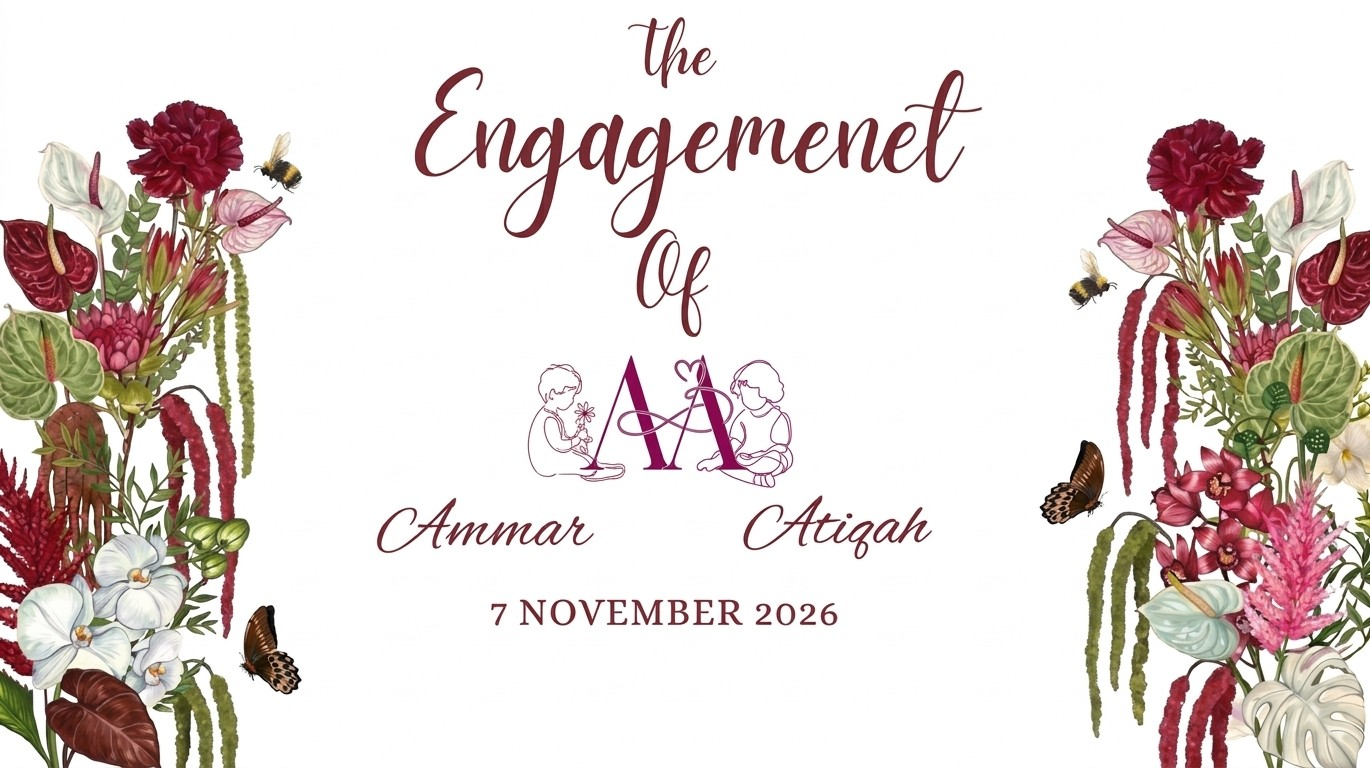
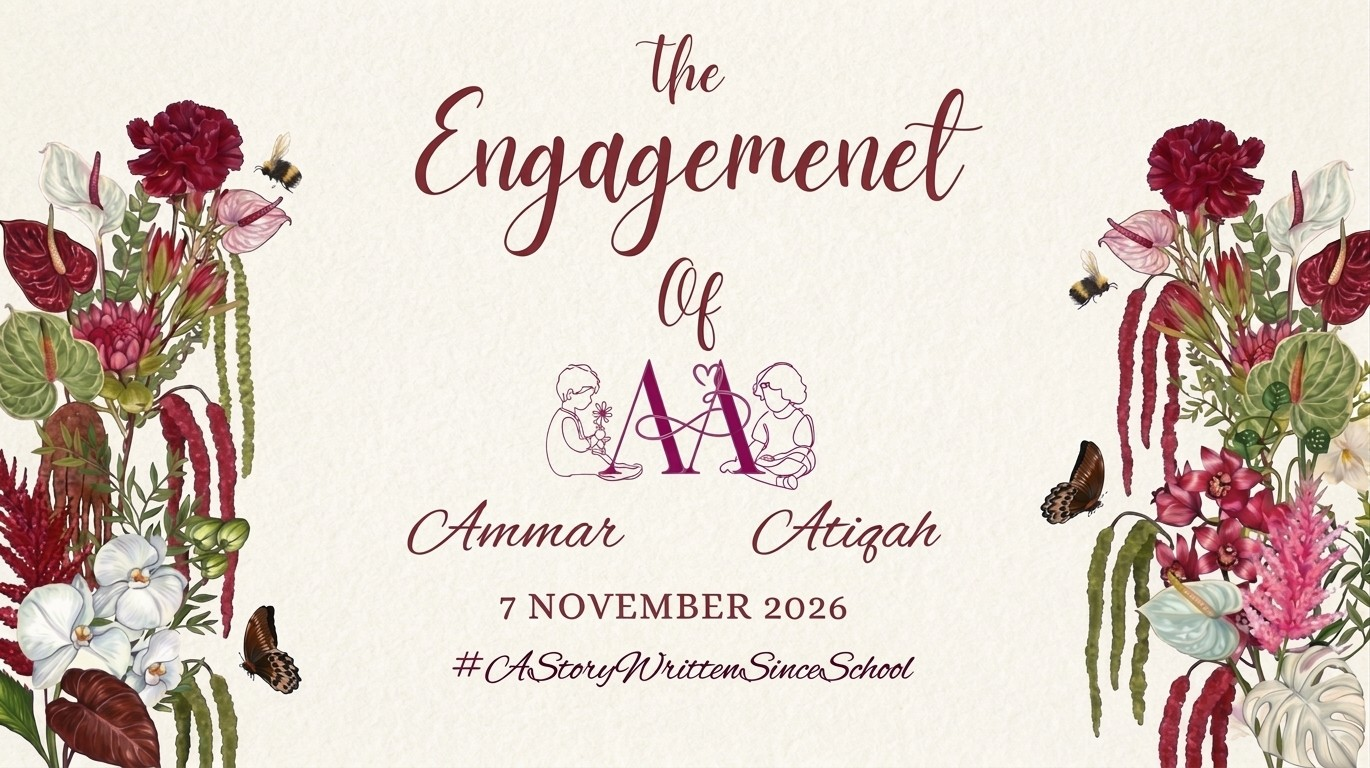
New board image: cream paper with hashtag

diff --git a/index.html b/index.html
@@ -12,11 +12,11 @@
   :root{--wine:#7d1430;--wine-dk:#5e0f24;--sage:#6f7f4a;--ink:#4f4440}
   *{box-sizing:border-box;margin:0}
   [hidden]{display:none!important}
-  html,body{height:100%;background:#fff;overflow:hidden}
+  html,body{height:100%;background:#f3efe6;overflow:hidden}
   body{display:flex;align-items:center;justify-content:center}
   /* 16:9 stage scaled to the screen via container units; artwork fills it */
   #stage{position:relative;width:min(100vw,177.78vh);aspect-ratio:16/9;container-type:size;overflow:hidden;
-    background:#fff url(board.jpg) center/cover no-repeat;
+    background:#f3efe6 url(board.jpg) center/cover no-repeat;
     font-family:'Cormorant Garamond',serif;color:var(--ink)}
   .card{position:absolute;inset:0;display:flex;flex-direction:column;align-items:center;justify-content:center;text-align:center;z-index:2}
   .title{font-family:'Allura',cursive;font-weight:400;font-size:7.6cqw;line-height:1;color:var(--wine);animation:rise 1.4s both}
